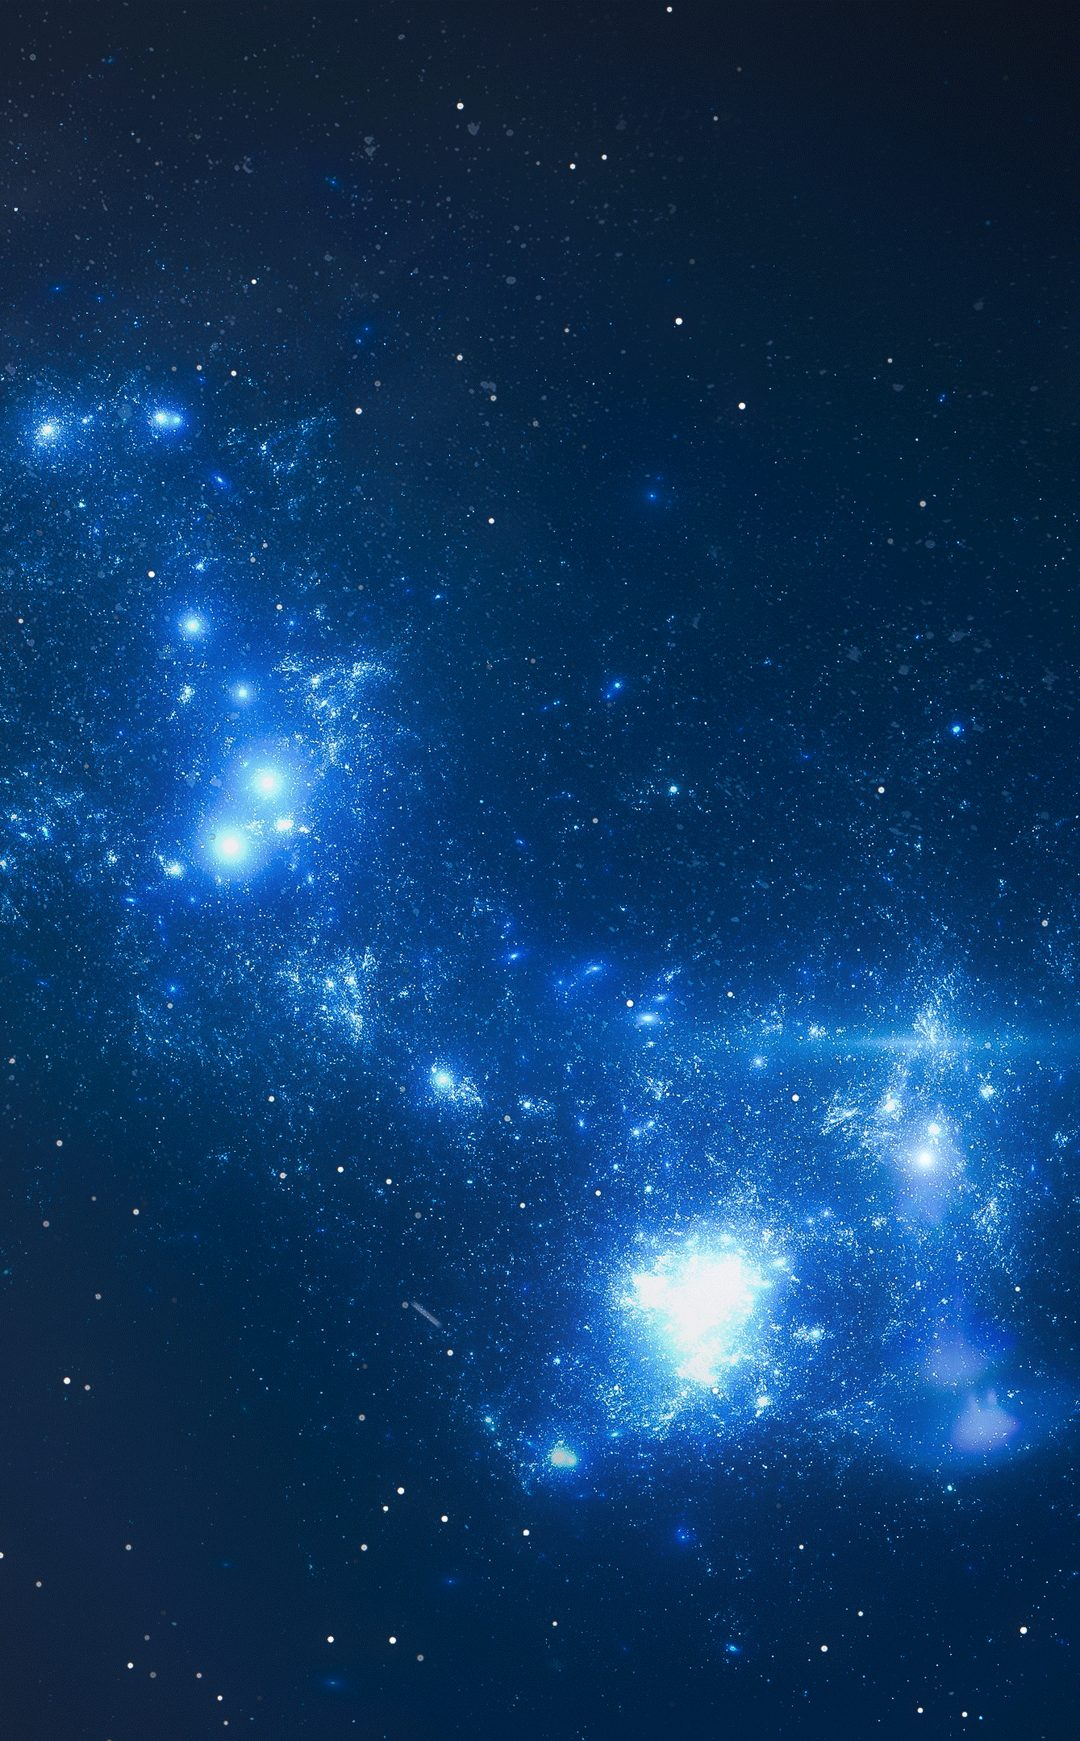
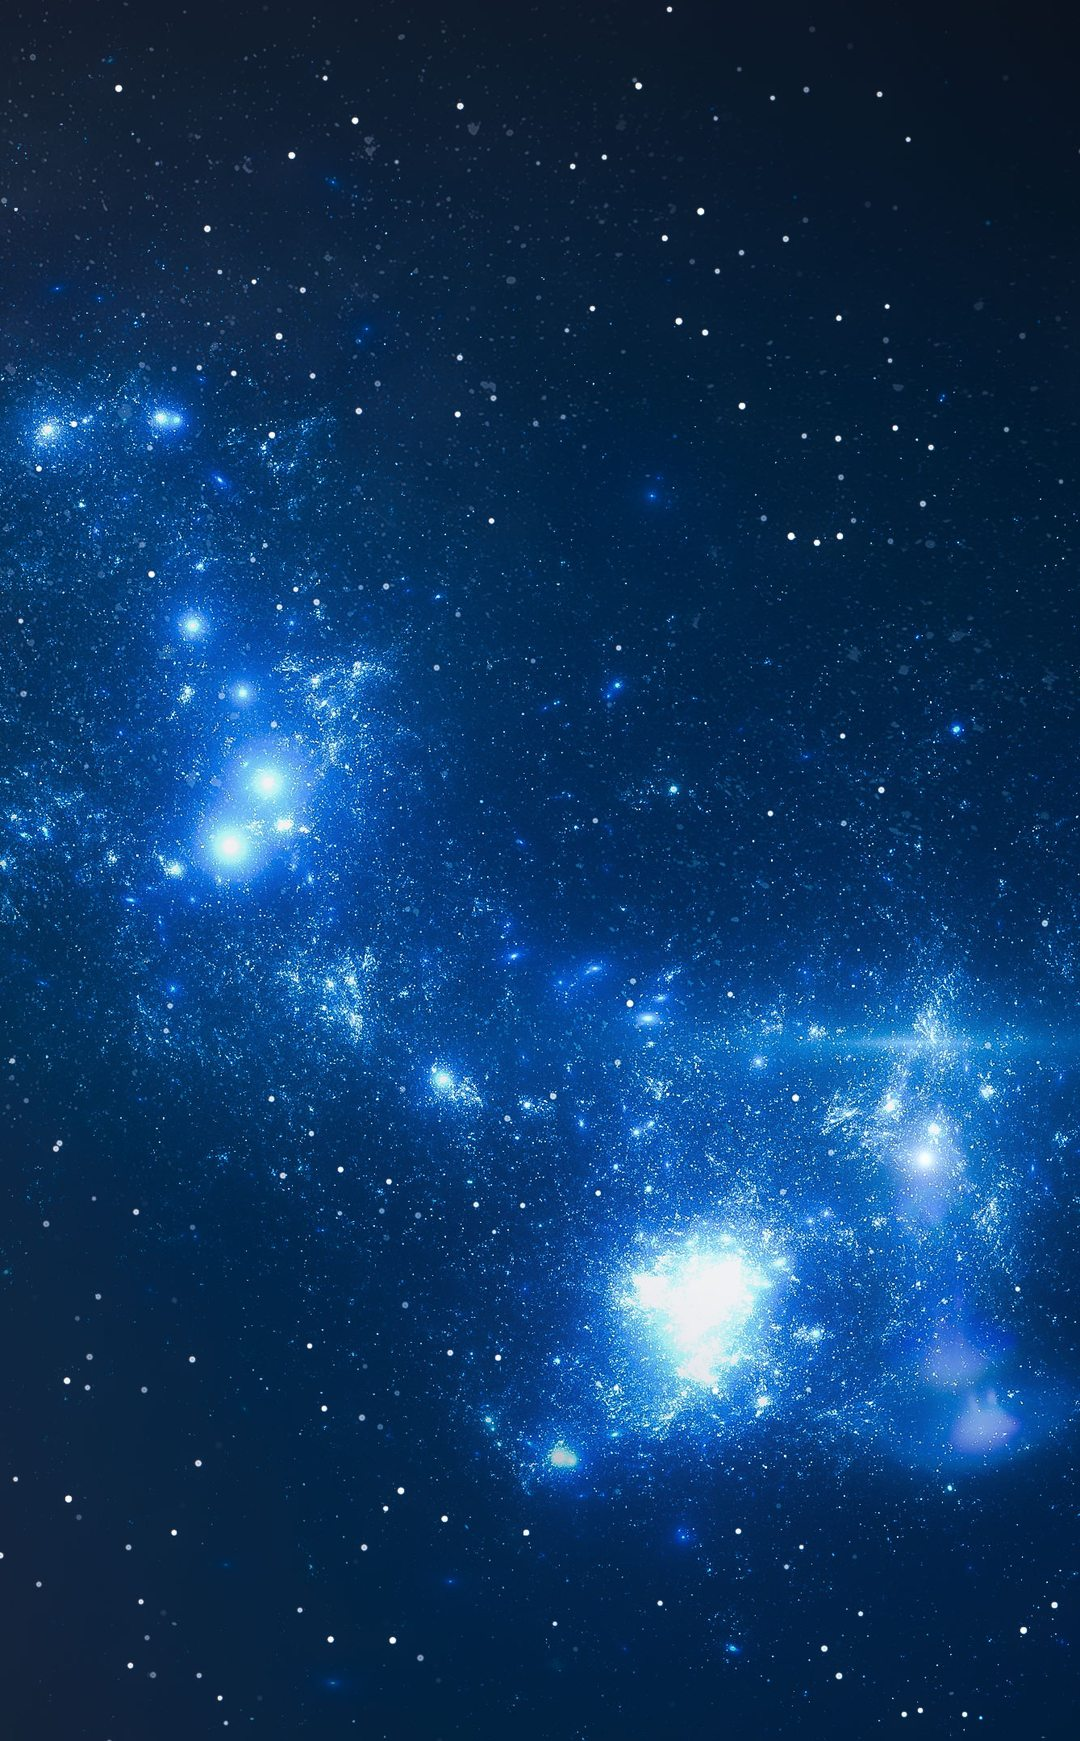
biomes 3.0

diff --git a/assets/css/biomes.css b/assets/css/biomes.css
@@ -49,13 +49,13 @@
 }
 
 /* телефон и планшет */
-.biome--1.is-src { background-image: url('../images/biomes/biome-1-m.jpg?v=2'); }
-.biome--2.is-src { background-image: url('../images/biomes/biome-2-m.jpg?v=2'); }
-.biome--3.is-src { background-image: url('../images/biomes/biome-3-m.jpg?v=2'); }
-.biome--4.is-src { background-image: url('../images/biomes/biome-4-m.jpg?v=2'); }
-.biome--5.is-src { background-image: url('../images/biomes/biome-5-m.jpg?v=2'); }
-.biome--6.is-src { background-image: url('../images/biomes/biome-6-m.jpg?v=2'); }
-.biome--7.is-src { background-image: url('../images/biomes/biome-7-m.jpg?v=2'); }
+.biome--1.is-src { background-image: url('../images/biomes/biome-1-m.jpg?v=3'); }
+.biome--2.is-src { background-image: url('../images/biomes/biome-2-m.jpg?v=3'); }
+.biome--3.is-src { background-image: url('../images/biomes/biome-3-m.jpg?v=3'); }
+.biome--4.is-src { background-image: url('../images/biomes/biome-4-m.jpg?v=3'); }
+.biome--5.is-src { background-image: url('../images/biomes/biome-5-m.jpg?v=3'); }
+.biome--6.is-src { background-image: url('../images/biomes/biome-6-m.jpg?v=3'); }
+.biome--7.is-src { background-image: url('../images/biomes/biome-7-m.jpg?v=3'); }
 
 /* на телефоне текст крупнее относительно кадра, а светлые туманности ярче — слегка притемняем для читаемости */
 @media (max-width: 1279.98px) {
@@ -73,13 +73,13 @@
         --bf: calc(320*var(--du));
     }
 
-    .biome--1.is-src { background-image: url('../images/biomes/biome-1.jpg?v=2'); }
-    .biome--2.is-src { background-image: url('../images/biomes/biome-2.jpg?v=2'); }
-    .biome--3.is-src { background-image: url('../images/biomes/biome-3.jpg?v=2'); }
-    .biome--4.is-src { background-image: url('../images/biomes/biome-4.jpg?v=2'); }
-    .biome--5.is-src { background-image: url('../images/biomes/biome-5.jpg?v=2'); }
-    .biome--6.is-src { background-image: url('../images/biomes/biome-6.jpg?v=2'); }
-    .biome--7.is-src { background-image: url('../images/biomes/biome-7.jpg?v=2'); }
+    .biome--1.is-src { background-image: url('../images/biomes/biome-1.jpg?v=3'); }
+    .biome--2.is-src { background-image: url('../images/biomes/biome-2.jpg?v=3'); }
+    .biome--3.is-src { background-image: url('../images/biomes/biome-3.jpg?v=3'); }
+    .biome--4.is-src { background-image: url('../images/biomes/biome-4.jpg?v=3'); }
+    .biome--5.is-src { background-image: url('../images/biomes/biome-5.jpg?v=3'); }
+    .biome--6.is-src { background-image: url('../images/biomes/biome-6.jpg?v=3'); }
+    .biome--7.is-src { background-image: url('../images/biomes/biome-7.jpg?v=3'); }
 }
 
 @media (prefers-reduced-motion: reduce) {

diff --git a/index.html b/index.html
@@ -113,7 +113,7 @@
     <link rel="stylesheet" href="./assets/css/main.css?v=10">
     <link rel="stylesheet" href="./assets/css/articles.css?v=4">
     <link rel="stylesheet" href="./assets/css/select.css?v=6">
-    <link rel="stylesheet" href="./assets/css/biomes.css?v=4">
+    <link rel="stylesheet" href="./assets/css/biomes.css?v=5">
 
     <script type="application/ld+json">
     {
@@ -419,15 +419,6 @@
                 <i class="biome biome--7" data-biome="7"></i>
             </div>
             <section class="directions" id="directions" aria-labelledby="directions-title">
-                <picture>
-                    <img loading="lazy" class="comet comet--left" src="./assets/images/comet-left.png" width="505" height="541" alt=""
-                        aria-hidden="true" decoding="async">
-                </picture>
-                <picture>
-                    <img loading="lazy" class="comet comet--right" src="./assets/images/comet-right.png" width="765" height="915"
-                        alt="" aria-hidden="true" decoding="async">
-                </picture>
-
                 <span class="directions__glow" aria-hidden="true"></span>
 
                 <h2 class="directions__title" id="directions-title">
@@ -1016,7 +1007,7 @@
         </style>
     </noscript>
 
-    <script type="module" src="./assets/js/main.js?v=14"></script>
+    <script type="module" src="./assets/js/main.js?v=16"></script>
 </body>
 
 </html>

diff --git a/assets/js/main.js b/assets/js/main.js
@@ -8,7 +8,7 @@ import { initCarousel } from './modules/carousel.js?v=5';
 import { initCrewSlider } from './modules/crew-slider.js?v=5';
 import { initModals } from './modules/modals.js?v=5';
 import { initArticles } from './modules/articles.js?v=4';
-import { initBiomes } from './modules/biomes.js?v=3';
+import { initBiomes } from './modules/biomes.js?v=4';
 import { initSelect } from './modules/select.js?v=4';
 import { initGlassClose } from './modules/glass-close.js?v=5';
 import { initNavGlass } from './modules/nav-glass.js?v=5';
@@ -16,7 +16,7 @@ import { initPressSpring } from './modules/press-spring.js?v=6';
 import { initStarLight } from './modules/star-light.js?v=7';
 import { initSmoothScroll } from './modules/smooth-scroll.js?v=5';
 
-console.info('[kometa] build 14');
+console.info('[kometa] build 16');
 const reduceMotion = window.matchMedia('(prefers-reduced-motion: reduce)').matches;
 const isPhone = window.matchMedia('(max-width: 1279.98px)').matches;
 const root = document.documentElement;

diff --git a/assets/js/modules/biomes.js b/assets/js/modules/biomes.js
@@ -8,7 +8,7 @@ export function initBiomes() {
     if (conn && (conn.saveData || /(^|-)2g$/.test(conn.effectiveType || ''))) return;
 
     const wide = () => window.matchMedia('(min-width: 1280px)').matches;
-    const url = (n) => `./assets/images/biomes/biome-${n}${wide() ? '' : '-m'}.jpg?v=2`;
+    const url = (n) => `./assets/images/biomes/biome-${n}${wide() ? '' : '-m'}.jpg?v=3`;
     const cache = new Map();   // ключ: номер + вариант (широкий/вертикальный)
 
     const load = (el) => {
